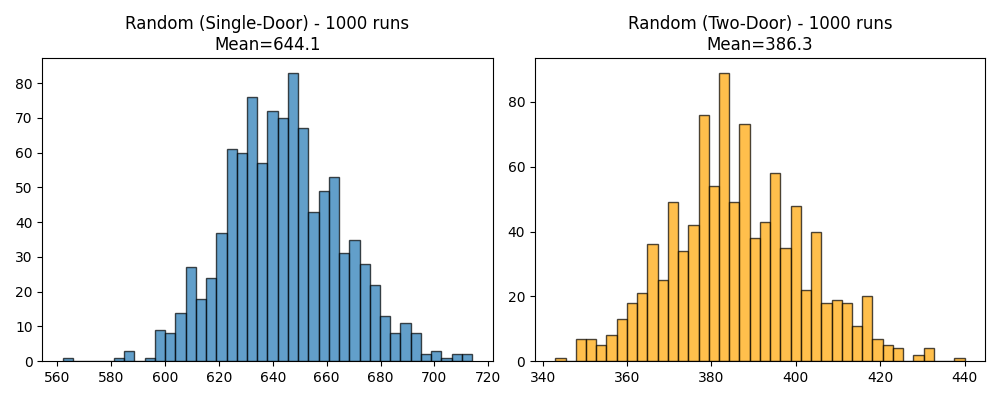
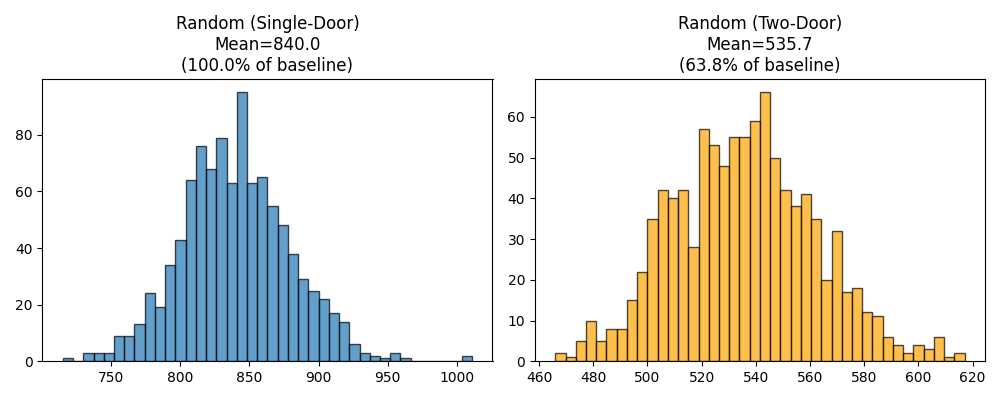
bruh

diff --git a/run_headless.py b/run_headless.py
@@ -22,19 +22,51 @@ def run_multiple_sims(method="Random", door_config="1 Door", num_runs=1000):
             print(f"  --> Completed {i+1} simulations... ({method}, {door_config})")
     return all_times
 
+# --------------------------------------------------------------
+# We'll define a helper function to get (or store) the baseline
+# "Random, 1 Door" scenario that the paper uses as 100%.
+# --------------------------------------------------------------
+_baseline_cache = None
+
+def ensure_baseline(num_runs=1000):
+    """
+    Runs 'Random, 1 Door' with num_runs (if not already done),
+    returns the baseline mean. This is the reference scenario
+    we'll call 100% (like in the paper).
+    """
+    global _baseline_cache
+    if _baseline_cache is None:
+        print(f"--- Computing baseline scenario: Random (1 Door), {num_runs} runs ---")
+        results_base = run_multiple_sims(method="Random", door_config="1 Door", num_runs=num_runs)
+        _baseline_cache = statistics.mean(results_base)
+        print(f"Baseline Single-Door Random Mean => {_baseline_cache:.2f} steps\n")
+    return _baseline_cache
 
 if __name__ == "__main__":
-    print("What would you like to do?")
-    print(" 1) Run multiple simulations for a user-chosen method & door config")
-    print(" 2) Run T-test comparing single-door vs. two-door for the same method")
+    print("This script first establishes 'Random, 1 Door' as a baseline = 100%,")
+    print("then expresses all scenario means as a ratio to that baseline.")
+    print("\nWhat would you like to do?")
+    print(" 1) Run multiple simulations for a user-chosen method & door config (reports ratio vs. baseline)")
+    print(" 2) Run T-test comparing single-door vs. two-door for the same method (also ratio vs. baseline)")
     print(" 3) Run T-test comparing 'Back-to-front' vs. 'Random' (Single door)")
-    choice = input("\nEnter your choice [1/2/3]: ").strip()
+    print(" 4) Run T-test comparing 'Back-to-front' vs. 'Random' (Two Doors)")
 
-    if choice not in ("1", "2", "3"):
+    choice = input("\nEnter your choice [1/2/3/4]: ").strip()
+    if choice not in ("1", "2", "3", "4"):
         print("Invalid input. Defaulting to option '1'.")
         choice = "1"
 
-    # --- Option 1: Normal user scenario with chosen method & door config ---
+    # We'll also let the user define how many runs for the baseline so it matches the next tests:
+    baseline_runs_input = input("\nHow many baseline runs? [default=1000]: ").strip()
+    if baseline_runs_input == "":
+        baseline_runs = 1000
+    else:
+        baseline_runs = int(baseline_runs_input)
+
+    # Step 1: ensure we have the baseline from single-door random
+    baseline_mean = ensure_baseline(num_runs=baseline_runs)
+
+    # --- Option 1: normal scenario, but we also express ratio vs. baseline
     if choice == "1":
         method_list = list(PlaneModel.method_types.keys())
         print("\nAvailable boarding methods:")
@@ -72,8 +104,10 @@ if __name__ == "__main__":
         q1 = np.percentile(results, 25)
         q3 = np.percentile(results, 75)
 
+        ratio_vs_baseline = (mean_time / baseline_mean)*100 if baseline_mean != 0 else 0
+
         print(f"\nResults for {chosen_method} with {chosen_door} ({num_sims} runs):")
-        print(f"  Mean:     {mean_time:.2f}")
+        print(f"  Mean:     {mean_time:.2f}  => {ratio_vs_baseline:.1f}% of baseline (random 1D)")
         print(f"  Median:   {median_time:.2f}")
         print(f"  Std Dev:  {std_time:.2f}")
         print(f"  Min:      {min_time}")
@@ -90,8 +124,7 @@ if __name__ == "__main__":
             plt.ylabel("Frequency")
             plt.show()
 
-
-    # --- Option 2: T-test (one door vs. two doors) using the same method ---
+    # --- Option 2: T-test (one door vs. two doors) using the same method
     elif choice == "2":
         method_list = list(PlaneModel.method_types.keys())
         print("\nAvailable boarding methods for T-test:")
@@ -116,16 +149,21 @@ if __name__ == "__main__":
         results_1d = run_multiple_sims(method=test_method, door_config="1 Door", num_runs=test_runs)
         results_2d = run_multiple_sims(method=test_method, door_config="2 Doors", num_runs=test_runs)
 
-        stat, p_value = ttest_ind(results_1d, results_2d, equal_var=False)
-
         mean_1d = statistics.mean(results_1d)
         mean_2d = statistics.mean(results_2d)
-        diff = mean_1d - mean_2d
-        diff_pct = (diff / mean_1d * 100) if mean_1d != 0 else 0.0
+
+        # Compare to baseline:
+        ratio_1d = (mean_1d / baseline_mean)*100 if baseline_mean else 0
+        ratio_2d = (mean_2d / baseline_mean)*100 if baseline_mean else 0
+
+        stat, p_value = ttest_ind(results_1d, results_2d, equal_var=False)
 
         print("\n--- T-Test (Welch) Results ---")
-        print(f" Single-Door Mean: {mean_1d:.2f}")
-        print(f" Two-Door   Mean: {mean_2d:.2f}")
+        print(f" Single-Door Mean: {mean_1d:.2f} => {ratio_1d:.1f}% of baseline")
+        print(f" Two-Door   Mean: {mean_2d:.2f} => {ratio_2d:.1f}% of baseline")
+
+        diff = mean_1d - mean_2d
+        diff_pct = (diff / mean_1d * 100) if mean_1d != 0 else 0.0
         print(f" Difference: {diff:.2f}  ({diff_pct:.2f}%)")
         print(f" t-stat = {stat:.3f}, p-value = {p_value:.6f}")
 
@@ -134,7 +172,7 @@ if __name__ == "__main__":
         else:
             print(" ==> We fail to reject H0: No significant difference found (p>=0.05).")
 
-        # === PLOT side by side histograms ===
+        # Plot side-by-side
         do_plot = input("\nPlot both distributions side-by-side? (y/n) [default=n]: ").lower() == "y"
         if do_plot:
             plt.figure(figsize=(10, 4))
@@ -142,16 +180,15 @@ if __name__ == "__main__":
             # Left subplot: single-door
             plt.subplot(1, 2, 1)
             plt.hist(results_1d, bins=40, edgecolor='black', alpha=0.7)
-            plt.title(f"{test_method} (Single-Door) - {test_runs} runs\nMean={mean_1d:.1f}")
+            plt.title(f"{test_method} (Single-Door)\nMean={mean_1d:.1f}\n({ratio_1d:.1f}% of baseline)")
 
             # Right subplot: two-door
             plt.subplot(1, 2, 2)
             plt.hist(results_2d, bins=40, edgecolor='black', alpha=0.7, color='orange')
-            plt.title(f"{test_method} (Two-Door) - {test_runs} runs\nMean={mean_2d:.1f}")
+            plt.title(f"{test_method} (Two-Door)\nMean={mean_2d:.1f}\n({ratio_2d:.1f}% of baseline)")
 
             plt.tight_layout()
             plt.show()
-
 
     # --- Option 3: T-test comparing 'Back-to-front' vs. 'Random' under single-door
     elif choice == "3":
@@ -166,16 +203,21 @@ if __name__ == "__main__":
         results_back_front = run_multiple_sims(method="Back-to-front", door_config="1 Door", num_runs=test_runs)
         results_random = run_multiple_sims(method="Random", door_config="1 Door", num_runs=test_runs)
 
-        stat, p_value = ttest_ind(results_back_front, results_random, equal_var=False)
-
         mean_bf = statistics.mean(results_back_front)
         mean_rn = statistics.mean(results_random)
-        diff = mean_bf - mean_rn
-        diff_pct = (diff / mean_bf * 100) if mean_bf != 0 else 0.0
+
+        # Compare both to the random-1door baseline from earlier
+        ratio_bf = (mean_bf / baseline_mean)*100 if baseline_mean else 0
+        ratio_rn = (mean_rn / baseline_mean)*100 if baseline_mean else 0
+
+        stat, p_value = ttest_ind(results_back_front, results_random, equal_var=False)
 
         print("\n--- T-Test (Welch) Results ---")
-        print(f" Back-to-front Mean: {mean_bf:.2f}")
-        print(f" Random        Mean: {mean_rn:.2f}")
+        print(f" Back-to-front Mean: {mean_bf:.2f} => {ratio_bf:.1f}% of baseline")
+        print(f" Random        Mean: {mean_rn:.2f} => {ratio_rn:.1f}% of baseline")
+
+        diff = mean_bf - mean_rn
+        diff_pct = (diff / mean_bf * 100) if mean_bf != 0 else 0.0
         print(f" Difference:        {diff:.2f}  ({diff_pct:.2f}%)")
         print(f" t-stat = {stat:.3f}, p-value = {p_value:.6f}")
 
@@ -184,20 +226,71 @@ if __name__ == "__main__":
         else:
             print(" ==> We fail to reject H0: No significant difference found (p>=0.05).")
 
-        # === PLOT side by side histograms ===
         do_plot = input("\nPlot both distributions side-by-side? (y/n) [default=n]: ").lower() == "y"
         if do_plot:
             plt.figure(figsize=(10, 4))
 
-            # Left subplot: back-to-front
+            # BFS
             plt.subplot(1, 2, 1)
             plt.hist(results_back_front, bins=40, edgecolor='black', alpha=0.7)
-            plt.title(f"Back-to-front - {test_runs} runs\nMean={mean_bf:.1f}")
+            plt.title(f"Back-to-front (1D)\nMean={mean_bf:.1f}\n({ratio_bf:.1f}% of baseline)")
 
-            # Right subplot: random
+            # Random
             plt.subplot(1, 2, 2)
             plt.hist(results_random, bins=40, edgecolor='black', alpha=0.7, color='green')
-            plt.title(f"Random - {test_runs} runs\nMean={mean_rn:.1f}")
+            plt.title(f"Random (1D)\nMean={mean_rn:.1f}\n({ratio_rn:.1f}% of baseline)")
+
+            plt.tight_layout()
+            plt.show()
+
+    # --- Option 4: T-test comparing 'Back-to-front' vs. 'Random' under two doors
+    elif choice == "4":
+        print("\n=== T-TEST: Comparing 'Back-to-front' vs. 'Random' (Two Doors) ===")
+        runs_input = input("How many simulations per method? [default=1000]: ").strip()
+        if runs_input == "":
+            test_runs = 1000
+        else:
+            test_runs = int(runs_input)
+
+        print(f"\nRunning {test_runs} simulations each for 'Back-to-front' and 'Random' under Two Doors...\n")
+        results_bf_2d = run_multiple_sims(method="Back-to-front", door_config="2 Doors", num_runs=test_runs)
+        results_rn_2d = run_multiple_sims(method="Random", door_config="2 Doors", num_runs=test_runs)
+
+        mean_bf = statistics.mean(results_bf_2d)
+        mean_rn = statistics.mean(results_rn_2d)
+
+        ratio_bf = (mean_bf / baseline_mean)*100 if baseline_mean else 0
+        ratio_rn = (mean_rn / baseline_mean)*100 if baseline_mean else 0
+
+        stat, p_value = ttest_ind(results_bf_2d, results_rn_2d, equal_var=False)
+
+        print("\n--- T-Test (Welch) Results ---")
+        print(f" Back-to-front (2D) Mean: {mean_bf:.2f} => {ratio_bf:.1f}% of baseline")
+        print(f" Random (2D)        Mean: {mean_rn:.2f} => {ratio_rn:.1f}% of baseline")
+
+        diff = mean_bf - mean_rn
+        diff_pct = (diff / mean_bf * 100) if mean_bf != 0 else 0.0
+        print(f" Difference:             {diff:.2f}  ({diff_pct:.2f}%)")
+        print(f" t-stat = {stat:.3f}, p-value = {p_value:.6f}")
+
+        if p_value < 0.05:
+            print(" ==> We can reject H0: There's a significant difference between 'Back-to-front' and 'Random' in two-door mode.")
+        else:
+            print(" ==> We fail to reject H0: No significant difference found (p>=0.05).")
+
+        do_plot = input("\nPlot both distributions side-by-side? (y/n) [default=n]: ").lower() == "y"
+        if do_plot:
+            plt.figure(figsize=(10, 4))
+
+            # BFS (2D)
+            plt.subplot(1, 2, 1)
+            plt.hist(results_bf_2d, bins=40, edgecolor='black', alpha=0.7)
+            plt.title(f"Back-to-front (2D)\nMean={mean_bf:.1f}\n({ratio_bf:.1f}% of baseline)")
+
+            # Random (2D)
+            plt.subplot(1, 2, 2)
+            plt.hist(results_rn_2d, bins=40, edgecolor='black', alpha=0.7, color='green')
+            plt.title(f"Random (2D)\nMean={mean_rn:.1f}\n({ratio_rn:.1f}% of baseline)")
 
             plt.tight_layout()
             plt.show()
